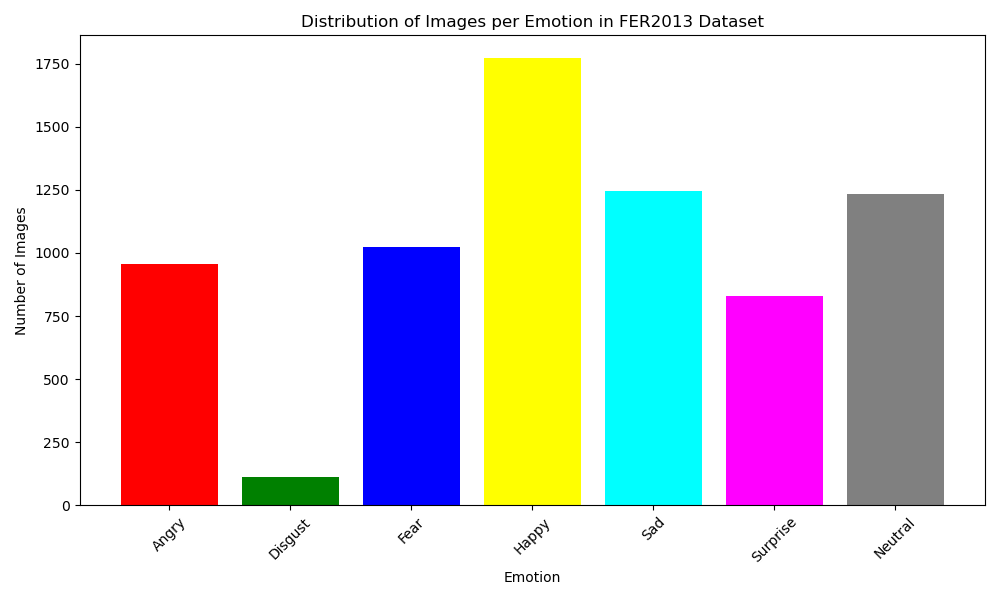
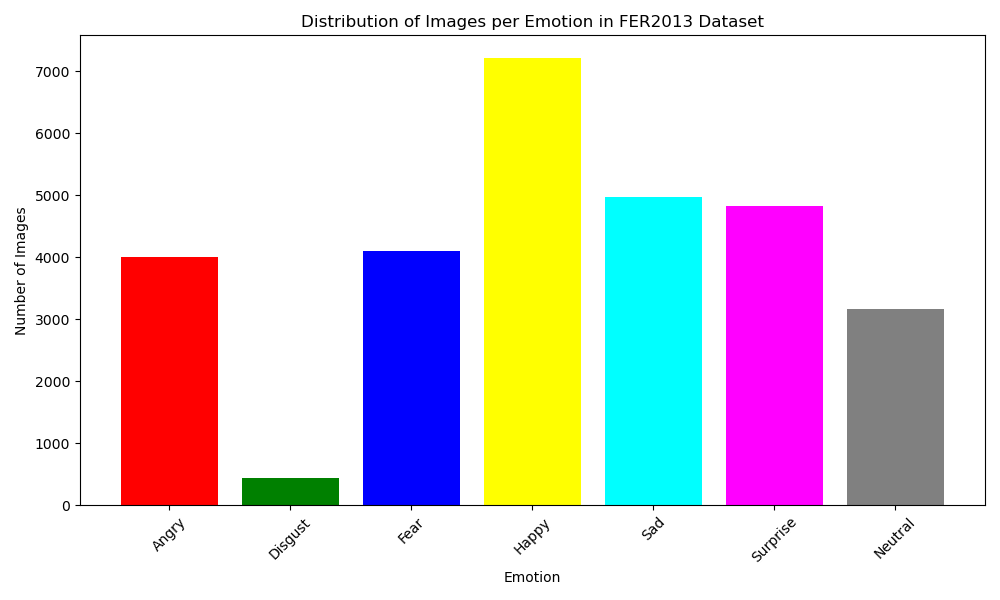
update

diff --git a/project/ResNet50/train_v2.py b/project/ResNet50/train_v2.py
@@ -162,8 +162,8 @@ def train(model, train_loader, val_loader, criterion, optimizer, scheduler, num_
         # Save best checkpoint
         if avg_val_loss < best_val_loss:
             best_val_loss = avg_val_loss
-            print(f"New best model found at epoch {epoch+1} with val loss {avg_val_loss:.4f}. Saving model...v5")
-            torch.save(model.state_dict(), "best_model_v5.pth")
+            print(f"New best model found at epoch {epoch+1} with val loss {avg_val_loss:.4f}. Saving model...v6")
+            torch.save(model.state_dict(), "best_model_v6.pth")
 
     save_path = "model.pth"
     torch.save(model.state_dict(), save_path)
@@ -190,13 +190,22 @@ if __name__ == "__main__":
     val_size = int(len(full_train_dataset) * val_split)
     train_size = len(full_train_dataset) - val_size
     train_dataset, val_dataset = torch.utils.data.random_split(full_train_dataset, [train_size, val_size], generator=torch.Generator().manual_seed(random_seed))
-    train_loader = DataLoader(train_dataset, batch_size=64, shuffle=True, num_workers=2)
+    # Per-class oversampling using WeightedRandomSampler
+    from torch.utils.data import WeightedRandomSampler
+    # Get class counts and sample weights
+    class_counts = torch.tensor([3995, 436, 4097, 7215, 4965, 4830, 3171], dtype=torch.float)
+    sample_weights = 1.0 / class_counts
+    # Assign weight to each sample in the train_dataset
+    train_labels = [label for _, label in train_dataset]
+    weights = [sample_weights[label] for label in train_labels]
+    sampler = WeightedRandomSampler(weights, num_samples=len(weights), replacement=True)
+    train_loader = DataLoader(train_dataset, batch_size=64, sampler=sampler, num_workers=2)
     val_loader = DataLoader(val_dataset, batch_size=64, shuffle=False, num_workers=2)
     print(f"Train dataset size: {len(train_dataset)}, Validation dataset size: {len(val_dataset)}")
     # Model
     model = VGGFace2WithMLP(hidden_size, num_classes, dropout_rate)
     print(f"Model initialized. With VGGFace2 backbone and MLP head. and {sum(p.numel() for p in model.parameters())} parameters.")
-    class_counts = torch.tensor([3995, 436, 4097, 7215, 4965, 4830, 3171], dtype=torch.float)
+    class_counts = torch.tensor([3832, 444, 4096, 7096, 4988, 3324, 4932], dtype=torch.float)
     weights = 1.0 / class_counts
     weights = weights / weights.sum() * len(class_counts)
     criterion = nn.CrossEntropyLoss(label_smoothing=0.1, weight=weights.to(device))
@@ -225,12 +234,12 @@ if __name__ == "__main__":
     backbone_param_groups = [
         {"params": first_block_params, "lr": 1e-6},
         {"params": mid_block_params, "lr": 1e-5},
-        {"params": last_block_params, "lr": 1e-4},
+        {"params": last_block_params, "lr": 5e-4},
         {"params": other_params, "lr": 0},
     ]
     optimizer = optim.AdamW(
         backbone_param_groups + [
-            {"params": model.head.parameters(), "lr": 1e-4}
+            {"params": model.head.parameters(), "lr": 5e-4}
         ],
         weight_decay=5e-4
     )

diff --git a/plot.py b/plot.py
@@ -1,16 +1,11 @@
 import matplotlib.pyplot as plt
+import numpy as np
 
 
-angry_bin = 958
-disgust_bin = 111
-fear_bin = 1024
-happy_bin = 1774
-sad_bin = 1247
-surprise_bin = 831
-neutral_bin = 1233
+class_counts = np.array([3995, 436, 4097, 7215, 4965, 4830, 3171])
 
 labels = ['Angry', 'Disgust', 'Fear', 'Happy', 'Sad', 'Surprise', 'Neutral']
-counts = [angry_bin, disgust_bin, fear_bin, happy_bin, sad_bin, surprise_bin, neutral_bin]
+counts = class_counts.tolist()
 plt.figure(figsize=(10, 6))
 plt.bar(labels, counts, color=['red', 'green', 'blue', 'yellow', 'cyan', 'magenta', 'gray'])
 plt.xlabel('Emotion')
